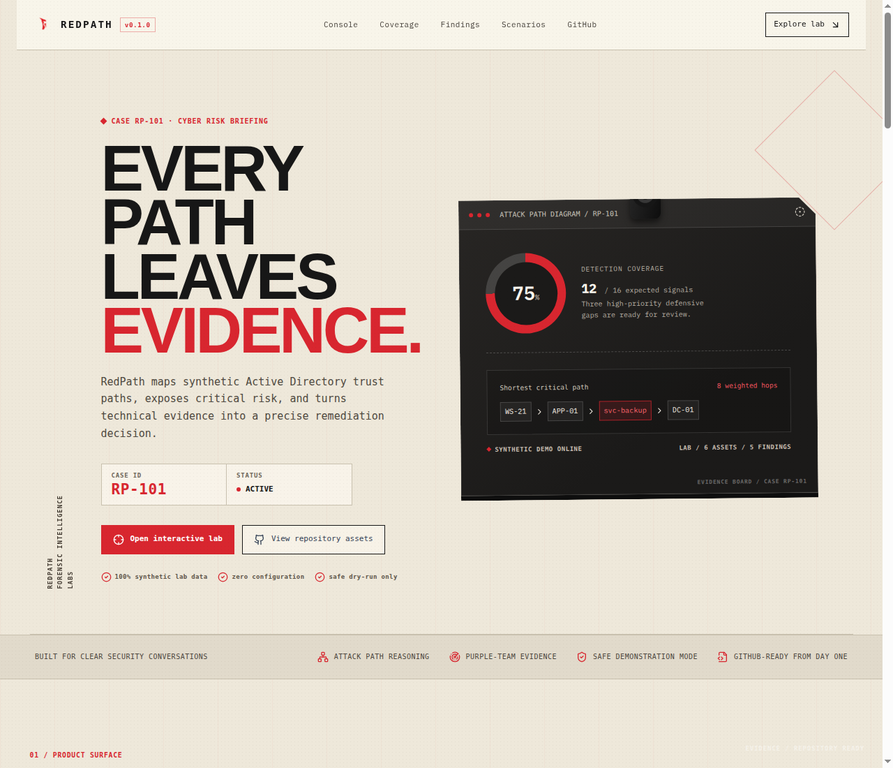
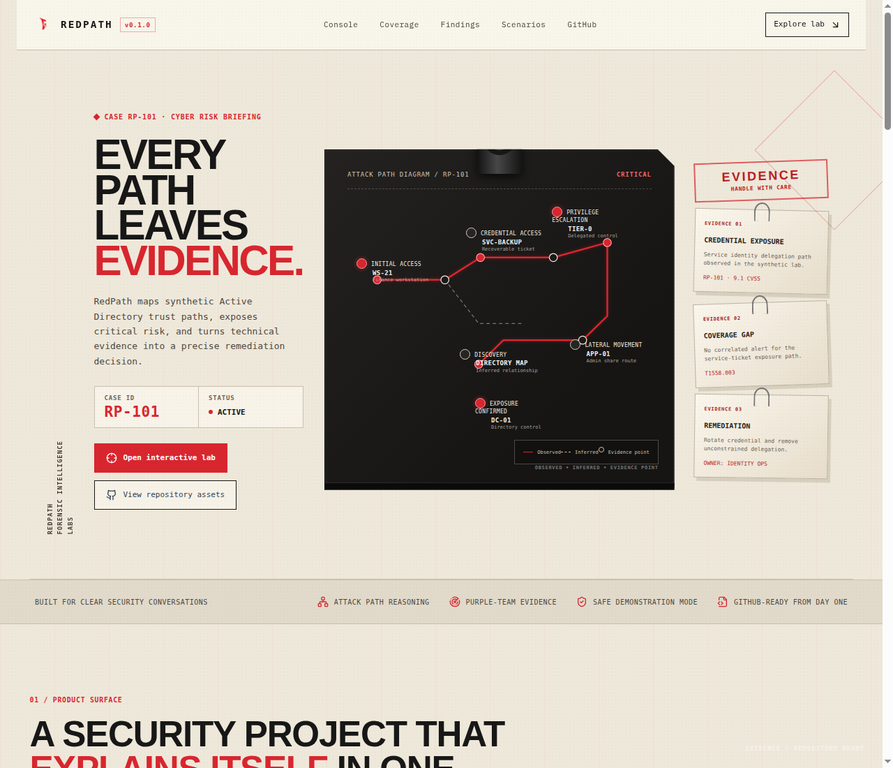
design: match forensic evidence board reference

diff --git a/frontend/src/forensic-reference-layout.css b/frontend/src/forensic-reference-layout.css
@@ -1,0 +1,14 @@
+.hero { grid-template-columns: minmax(255px, .82fr) minmax(470px, 1.36fr) minmax(170px, .52fr); gap: 28px; min-height: 690px; padding: 88px 36px 74px 92px; }
+.hero-copy { align-self: center; min-width: 0; }.hero h1 { max-width: 355px; font-size: clamp(48px, 4.7vw, 78px); }.hero-lede { max-width: 318px; font-size: 13px; }.hero-actions { margin-top: 22px; }.hero-proof { display: none; }.case-file-badge { width: 100%; max-width: 300px; margin-top: 25px; }
+.hero-panel { align-self: center; min-height: 488px; height: 488px; overflow: visible; transform: none; border: 1px solid #0e0d0c; border-bottom: 10px solid #0c0b0b; background: linear-gradient(135deg, #242220, #161514 72%); box-shadow: 0 19px 24px rgba(44, 32, 20, .26), inset 0 0 0 1px rgba(255,255,255,.08); }
+.hero-panel::before { left: 50%; top: -36px; width: 64px; height: 70px; transform: translateX(-50%); border-radius: 30px 30px 6px 6px; background: radial-gradient(circle at 50% 28%, #080808 0 10px, #454545 11px 16px, #171717 17px 23px, transparent 24px), linear-gradient(90deg, #131313, #474747 45%, #141414); box-shadow: 0 5px 13px rgba(0,0,0,.65); }
+.hero-panel::after { content: "OBSERVED  •  INFERRED  •  EVIDENCE POINT"; right: 22px; bottom: 18px; font-size: 7px; color: rgba(255,255,255,.42); }
+.case-board { position: relative; height: 100%; padding: 29px 32px 24px; color: #f4eee4; font-family: ui-monospace, SFMono-Regular, Menlo, monospace; }
+.case-board-head { display: flex; justify-content: space-between; align-items: center; padding-bottom: 13px; border-bottom: 1px dashed rgba(255,255,255,.21); color: #cec5b7; font-size: 9px; letter-spacing: .09em; }.case-board-head b { color: #f26469; font-weight: 800; }
+.case-board-route { position: relative; height: 338px; margin: 8px 0 4px; }.case-board-route svg { position: absolute; inset: 18px 4px 0; width: calc(100% - 8px); height: 285px; overflow: visible; }.case-board-route path { fill: none; stroke: #d8262f; stroke-width: 3; stroke-linecap: round; stroke-linejoin: round; filter: drop-shadow(0 0 3px rgba(216,38,47,.35)); }.case-board-route path.inferred { stroke: rgba(236,231,218,.45); stroke-width: 1.5; stroke-dasharray: 5 6; filter: none; }.case-board-route circle { fill: #1b1a19; stroke: #f1ece2; stroke-width: 1.5; }.case-board-route circle.hot { fill: #d8262f; stroke: #ff9a9f; }
+.board-point { position: absolute; z-index: 1; max-width: 112px; color: #f2eadf; font-size: 8px; line-height: 1.35; text-transform: uppercase; letter-spacing: .04em; }.board-point::before { content: ""; display: inline-block; width: 15px; height: 15px; margin: 0 6px -4px 0; border: 1px solid #d5cec1; border-radius: 50%; background: #272522; }.board-point b { display: block; margin-left: 23px; color: #f8f0e6; font-size: 9px; font-weight: 700; }.board-point small { display: block; margin-left: 23px; color: #a9a095; font-size: 7px; text-transform: none; letter-spacing: 0; }.board-point.initial { left: 3%; top: 27%; }.board-point.credential { left: 39%; top: 14%; }.board-point.privilege { right: 7%; top: 5%; }.board-point.discovery { left: 37%; bottom: 24%; }.board-point.lateral { right: 3%; bottom: 28%; }.board-point.exfil { left: 42%; bottom: 0; }.board-point.hot::before { background: #d8262f; border-color: #ff969b; box-shadow: 0 0 0 4px rgba(216,38,47,.12); }
+.board-legend { position: absolute; right: 22px; bottom: 27px; padding: 9px 12px; border: 1px solid rgba(255,255,255,.24); color: #ccc1b4; background: rgba(0,0,0,.18); font-size: 7px; line-height: 1.8; }.board-legend span::before { content: ""; display: inline-block; width: 14px; height: 1px; margin: 0 6px 2px 0; background: #d8262f; }.board-legend span:nth-child(2)::before { background: transparent; border-top: 1px dashed #ccc1b4; }.board-legend span:nth-child(3)::before { width: 8px; height: 8px; border: 1px solid #ccc1b4; border-radius: 50%; background: transparent; }
+.case-evidence-rail { align-self: center; display: grid; gap: 13px; }.evidence-stamp { padding: 11px 7px; border: 2px solid rgba(216,38,47,.72); color: #b91d27; text-align: center; font: 900 18px/.9 Impact, Haettenschweiler, sans-serif; letter-spacing: .14em; transform: rotate(-2deg); }.evidence-stamp small { display: block; margin-top: 5px; font: 700 8px ui-monospace, SFMono-Regular, Menlo, monospace; letter-spacing: .08em; }.evidence-card { position: relative; min-height: 116px; padding: 16px 13px 13px; border: 1px solid #bdb3a1; background: linear-gradient(140deg, #faf6ec, #e7ddcb); box-shadow: 4px 5px 0 rgba(113, 93, 66, .18); color: #27231e; font-family: ui-monospace, SFMono-Regular, Menlo, monospace; transform: rotate(1.4deg); }.evidence-card:nth-child(3) { transform: rotate(-1.8deg); }.evidence-card:nth-child(4) { transform: rotate(.8deg); }.evidence-card::before { content: ""; position: absolute; top: -11px; left: 50%; width: 23px; height: 27px; border: 2px solid #777; border-bottom: 0; border-radius: 50% 50% 0 0; transform: translateX(-50%); }.evidence-card > span { display: block; color: #a31d25; font-size: 7px; font-weight: 800; letter-spacing: .1em; }.evidence-card b { display: block; margin-top: 10px; font-size: 10px; text-transform: uppercase; }.evidence-card p { margin: 8px 0 0; color: #696156; font-size: 8px; line-height: 1.5; }.evidence-card em { display: block; margin-top: 9px; color: #b9252d; font-size: 8px; font-style: normal; }
+.hero + .trust-strip { margin-top: 0; }
+@media (max-width: 1100px) { .hero { grid-template-columns: minmax(260px,.8fr) minmax(480px,1.2fr); padding-left: 72px; }.case-evidence-rail { grid-column: 1 / -1; grid-template-columns: 1fr 1fr 1fr; margin: 0 34px; }.evidence-stamp { display: none; }.evidence-card { min-height: 102px; }.hero-panel { height: 465px; min-height: 465px; } }
+@media (max-width: 760px) { .hero { grid-template-columns: 1fr; padding: 60px 20px 46px 48px; gap: 46px; }.hero-copy { max-width: 420px; }.hero-panel { width: calc(100% - 6px); height: 460px; min-height: 460px; }.case-evidence-rail { grid-column: auto; grid-template-columns: 1fr; margin: 0 10px 0 0; }.evidence-stamp { display: block; }.evidence-card { min-height: 94px; }.board-point { font-size: 7px; }.board-point b { font-size: 8px; }.board-legend { display: none; } }

diff --git a/frontend/src/App.tsx b/frontend/src/App.tsx
@@ -70,14 +70,22 @@ export default function Home() {
             <div className="hero-actions"><a className="button primary" href="#explore"><Crosshair size={16} /> Open interactive lab</a><a className="button secondary" href="#github"><GitPullRequest size={16} /> View repository assets</a></div>
             <div className="hero-proof"><span><CheckCircle2 size={15} /> 100% synthetic lab data</span><span><CheckCircle2 size={15} /> zero configuration</span><span><CheckCircle2 size={15} /> safe dry-run only</span></div>
           </div>
-          <div className="hero-panel" aria-label="RedPath operational overview">
-            <div className="panel-window-bar"><span /><span /><span /><div>ATTACK PATH DIAGRAM / RP-101</div><CircleDotDashed size={15} /></div>
-            <div className="hero-panel-content">
-              <div className="hero-score"><div className="score-ring"><span>{coverage}<small>%</small></span></div><div><span className="metric-label">Detection coverage</span><strong>12 <small>/ 16 expected signals</small></strong><p>Three high-priority defensive gaps are ready for review.</p></div></div>
-              <div className="path-preview"><div className="preview-label"><span>Shortest critical path</span><b>8 weighted hops</b></div><div className="preview-route"><span>WS-21</span><ChevronRight size={13} /><span>APP-01</span><ChevronRight size={13} /><span className="route-hot">svc-backup</span><ChevronRight size={13} /><span>DC-01</span></div></div>
-              <div className="hero-panel-footer"><span><i className="status-dot" /> SYNTHETIC DEMO ONLINE</span><span>LAB / 6 ASSETS / 5 FINDINGS</span></div>
+          <div className="hero-panel" aria-label="RedPath evidence board attack path diagram">
+            <div className="case-board">
+              <div className="case-board-head"><span>ATTACK PATH DIAGRAM / RP-101</span><b>CRITICAL</b></div>
+              <div className="case-board-route">
+                <svg viewBox="0 0 520 300" aria-hidden="true"><path d="M47 103 H165 L227 64 H354 L448 38 V166 L405 208 H267 L224 250" /><path className="inferred" d="M165 103 L224 179 L302 179" /><circle className="hot" cx="47" cy="103" r="7" /><circle cx="165" cy="103" r="7" /><circle className="hot" cx="227" cy="64" r="7" /><circle cx="354" cy="64" r="7" /><circle className="hot" cx="448" cy="38" r="7" /><circle cx="405" cy="208" r="7" /><circle className="hot" cx="224" cy="250" r="7" /></svg>
+                <div className="board-point initial hot">Initial access<b>WS-21</b><small>Finance workstation</small></div><div className="board-point credential">Credential access<b>svc-backup</b><small>Recoverable ticket</small></div><div className="board-point privilege hot">Privilege escalation<b>Tier-0</b><small>Delegated control</small></div><div className="board-point discovery">Discovery<b>Directory map</b><small>Inferred relationship</small></div><div className="board-point lateral">Lateral movement<b>APP-01</b><small>Admin share route</small></div><div className="board-point exfil hot">Exposure confirmed<b>DC-01</b><small>Directory control</small></div>
+              </div>
+              <div className="board-legend"><span>Observed</span><span>Inferred</span><span>Evidence point</span></div>
             </div>
           </div>
+          <aside className="case-evidence-rail" aria-label="Evidence cards">
+            <div className="evidence-stamp">EVIDENCE<small>HANDLE WITH CARE</small></div>
+            <article className="evidence-card"><span>EVIDENCE 01</span><b>Credential exposure</b><p>Service identity delegation path observed in the synthetic lab.</p><em>RP-101 · 9.1 CVSS</em></article>
+            <article className="evidence-card"><span>EVIDENCE 02</span><b>Coverage gap</b><p>No correlated alert for the service-ticket exposure path.</p><em>T1558.003</em></article>
+            <article className="evidence-card"><span>EVIDENCE 03</span><b>Remediation</b><p>Rotate credential and remove unconstrained delegation.</p><em>OWNER: IDENTITY OPS</em></article>
+          </aside>
         </section>
 
         <section className="trust-strip"><span>Built for clear security conversations</span><div><span><Network size={16} /> Attack path reasoning</span><span><Radar size={16} /> Purple-team evidence</span><span><ShieldCheck size={16} /> Safe demonstration mode</span><span><FileCode2 size={16} /> GitHub-ready from day one</span></div></section>

diff --git a/frontend/src/main.tsx b/frontend/src/main.tsx
@@ -4,6 +4,7 @@ import App from "./App";
 import "./index.css";
 import "./light-theme.css";
 import "./forensic-casefile.css";
+import "./forensic-reference-layout.css";
 
 ReactDOM.createRoot(document.getElementById("root")!).render(
   <React.StrictMode>
